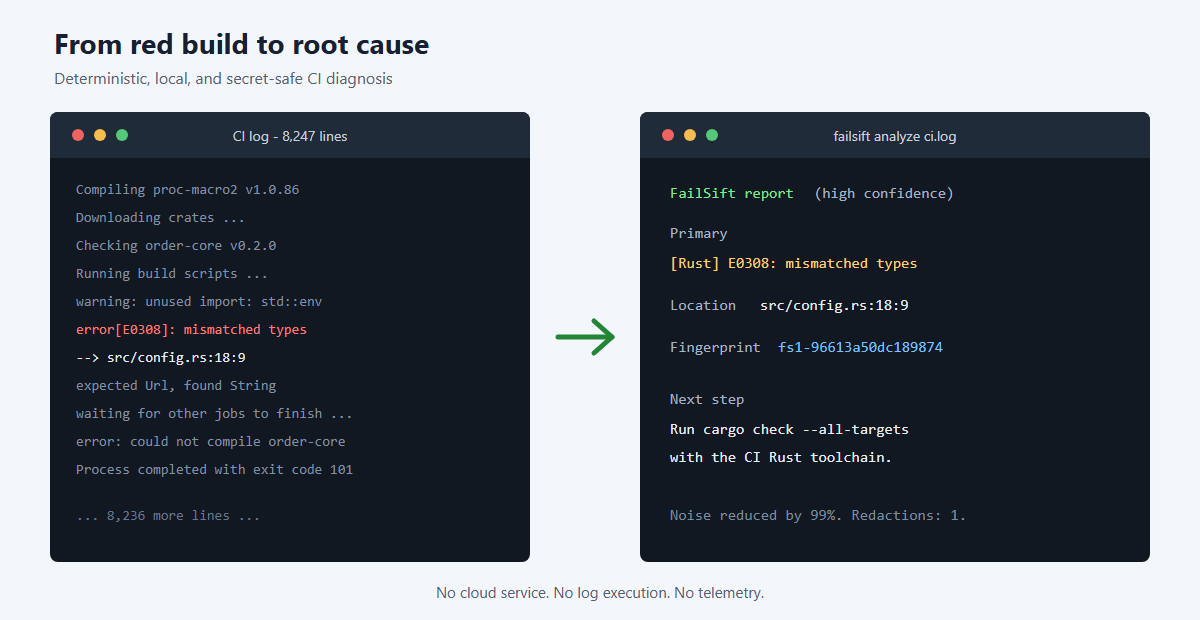
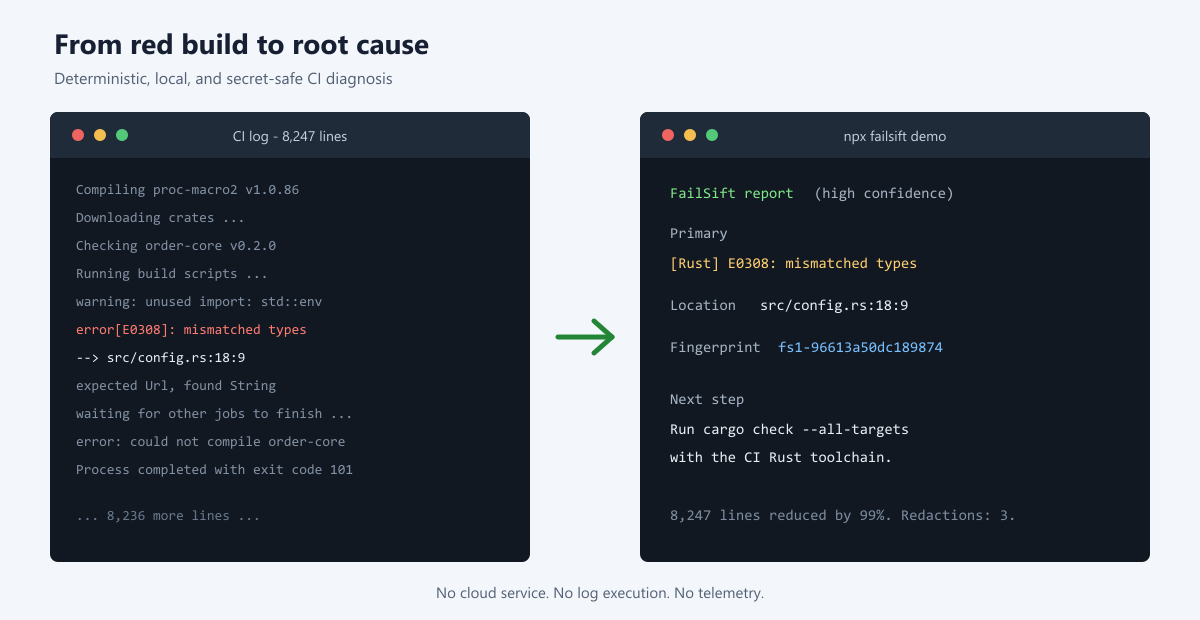
Add an instant first-run demo

diff --git a/test/demo.test.ts b/test/demo.test.ts
@@ -1,0 +1,26 @@
+import { describe, expect, it } from "vitest";
+import { analyzeText } from "../src/analyze.js";
+import { createDemoLog } from "../src/demo.js";
+
+describe("built-in demo", () => {
+  it("reproduces a large, secret-safe Rust diagnosis", () => {
+    const log = createDemoLog();
+    const report = analyzeText(log, {
+      source: { kind: "text", label: "built-in Rust CI demo" }
+    });
+
+    expect(log.split("\n")).toHaveLength(8_247);
+    expect(report.primaryFailure).toMatchObject({
+      framework: "Rust",
+      category: "compile",
+      message: "E0308: mismatched types",
+      file: "src/config.rs",
+      line: 18,
+      column: 9
+    });
+    expect(report.redactionCount).toBe(3);
+    expect(report.reductionPercent).toBe(99);
+    expect(JSON.stringify(report)).not.toContain("[email redacted]");
+    expect(JSON.stringify(report)).not.toContain("demo-value-not-a-secret");
+  });
+});

diff --git a/src/demo.ts b/src/demo.ts
@@ -1,0 +1,23 @@
+const DEMO_LINE_COUNT = 8_247;
+
+export function createDemoLog(): string {
+  const failure = [
+    "Run cargo check --all-targets",
+    "    Checking order-core v0.2.0 (/home/runner/work/example/order-core)",
+    "api_key=demo-value-not-a-secret",
+    "CI owner: [email redacted]",
+    "warning: unused import: `std::env`",
+    "error[E0308]: mismatched types",
+    "  --> src/config.rs:18:9",
+    "   |",
+    "18 |         endpoint,",
+    "   |         ^^^^^^^^ expected `Url`, found `String`",
+    "error: could not compile `order-core` (lib) due to 1 previous error",
+    "Error: Process completed with exit code 101."
+  ];
+  const progress = Array.from(
+    { length: DEMO_LINE_COUNT - failure.length },
+    (_, index) => `build progress ${index + 1}: dependency cache ready`
+  );
+  return [...progress, ...failure].join("\n");
+}

diff --git a/test/cli.test.ts b/test/cli.test.ts
@@ -10,6 +10,27 @@ const root = join(import.meta.dirname, "..");
 const cli = join(root, "dist", "cli.js");
 
 describe("compiled CLI", () => {
+  it("runs an instant demo without files, tokens, or network access", async () => {
+    const environment = { ...process.env };
+    delete environment.GH_TOKEN;
+    delete environment.GITHUB_TOKEN;
+    const { stdout, stderr } = await execute(process.execPath, [
+      cli,
+      "demo",
+      "--format",
+      "json"
+    ], { cwd: root, env: environment });
+    const report = JSON.parse(stdout);
+
+    expect(stderr).toBe("");
+    expect(report).toMatchObject({
+      source: { kind: "text", label: "built-in Rust CI demo" },
+      primaryFailure: { framework: "Rust", category: "compile" },
+      redactionCount: 3,
+      reductionPercent: 99
+    });
+  });
+
   it("analyzes a fixture and emits machine-readable JSON", async () => {
     const { stdout, stderr } = await execute(process.execPath, [
       cli,

diff --git a/src/cli.ts b/src/cli.ts
@@ -3,6 +3,7 @@ import { mkdir, writeFile } from "node:fs/promises";
 import { basename, dirname } from "node:path";
 import { Command, CommanderError, InvalidArgumentError } from "commander";
 import { analyzeText } from "./analyze.js";
+import { createDemoLog } from "./demo.js";
 import { FailSiftError, InputError, NetworkError } from "./errors.js";
 import { GithubClient } from "./github.js";
 import { renderHistoryReport } from "./history-render.js";
@@ -39,6 +40,17 @@ export async function main(argv = process.argv): Promise<number> {
       const report = analyzeText(text, {
         source: { kind: file === "-" ? "stdin" : "file", label: file === "-" ? "stdin" : basename(file) },
         limits
+      });
+      await emit(renderReport(report, options.format), options.output);
+    });
+
+  program.command("demo")
+    .description("Run a safe built-in example without files, tokens, or network access.")
+    .option("-f, --format <format>", "terminal, markdown, or json", parseFormat, "terminal")
+    .option("-o, --output <path>", "Write the demo report to a file")
+    .action(async (options: Pick<CommonOptions, "format" | "output">) => {
+      const report = analyzeText(createDemoLog(), {
+        source: { kind: "text", label: "built-in Rust CI demo" }
       });
       await emit(renderReport(report, options.format), options.output);
     });

diff --git a/src/analyze.ts b/src/analyze.ts
@@ -35,7 +35,7 @@ export function analyzeText(
   const reportedLines = failures.length;
   const reductionPercent = limitsApplied.linesRead === 0
     ? 0
-    : Math.max(0, Math.round((1 - reportedLines / limitsApplied.linesRead) * 100));
+    : Math.max(0, Math.floor((1 - reportedLines / limitsApplied.linesRead) * 100));
 
   return {
     schemaVersion: 1,

diff --git a/src/version.ts b/src/version.ts
@@ -1,1 +1,1 @@
-export const VERSION = "0.4.1";
+export const VERSION = "0.5.0";

diff --git a/src/index.ts b/src/index.ts
@@ -1,4 +1,5 @@
 export { analyzeText } from "./analyze.js";
+export { createDemoLog } from "./demo.js";
 export { GithubClient } from "./github.js";
 export { buildHistoryReport } from "./history.js";
 export { renderHistoryMarkdown, renderHistoryReport, renderHistoryTerminal } from "./history-render.js";

diff --git a/CHANGELOG.md b/CHANGELOG.md
@@ -2,6 +2,17 @@
 
 All notable changes are documented here. FailSift follows Semantic Versioning.
 
+## [0.5.0] - 2026-07-21
+
+### Added
+
+- `failsift demo` provides an immediate, deterministic diagnosis without files, credentials, or network access.
+- The built-in demo exercises Rust ranking, typed redaction, source locations, suggestions, and noise reduction across 8,247 synthetic lines.
+
+### Improved
+
+- Noise reduction percentages are floored so a non-empty diagnosis cannot overstate `99.x%` as `100%`.
+
 ## [0.4.1] - 2026-07-18
 
 ### Fixed

diff --git a/README.md b/README.md
@@ -8,7 +8,15 @@
 
 FailSift turns noisy CI logs into a concise, secret-safe diagnosis. It ranks the likely root cause, separates cascade failures, suggests a next step, and emits terminal, Markdown, or versioned JSON reports.
 
+```bash
+npx failsift demo
+```
+
+That command analyzes 8,247 synthetic CI lines locally and returns the root cause, source location, stable fingerprint, and next steps. It needs no install, file, account, token, or network access after npm downloads the package.
+
 ![FailSift terminal diagnosis](docs/demo.svg)
+
+If FailSift shortens your path from red build to useful fix, [starring the repository](https://github.com/danisantgry/failsift) helps other maintainers discover it.
 
 ## Why FailSift
 
@@ -21,7 +29,7 @@ A failed CI run often ends with a generic exit code while the useful error is bu
 - Safe GitHub Action for completed workflow runs.
 - Idempotent pull request comments instead of one new comment per rerun.
 
-## Quick Start
+## Install The Action
 
 Add FailSift to an existing GitHub repository in one command:
 
@@ -114,6 +122,7 @@ For stronger supply-chain pinning, replace `@v0` with a full release commit SHA.
 
 ```text
 failsift analyze <file|-> [--format terminal|markdown|json]
+failsift demo [--format terminal|markdown|json]
 failsift analyze <file> --output <path> [--max-log-mb 50]
 failsift github --repo owner/repo --run 123456 [--format markdown]
 failsift history --repo owner/repo --workflow ci.yml [--limit 10]

diff --git a/docs/ADOPTION.md b/docs/ADOPTION.md
@@ -20,7 +20,15 @@ Maintainers can open a feedback issue with the ecosystem, CI provider, and a ful
 
 ## Five-minute beta
 
-1. Add the workflow from the README without changing the existing CI workflow.
+Start with the complete local diagnosis before changing a repository:
+
+```bash
+npx failsift demo
+```
+
+The built-in example is deterministic, synthetic, and requires no credentials or network access after package download.
+
+1. Add the workflow with `npx failsift init` without changing the existing CI workflow.
 2. Let it observe one failed run or trigger a safe failure on a branch.
 3. Check whether the first reported failure points to the real repair.
 4. Open a feedback issue with the fingerprint and an anonymized excerpt when it does not.

diff --git a/docs/ARCHITECTURE.md b/docs/ARCHITECTURE.md
@@ -2,6 +2,8 @@
 
 FailSift separates untrusted input handling from diagnosis and presentation.
 
+The `failsift demo` command enters through the same analyzer and renderers as user logs. Its large synthetic input is generated locally, making the first-run experience reproducible without maintaining a separate demonstration implementation.
+
 ```text
 file, stdin, or GitHub API
           |